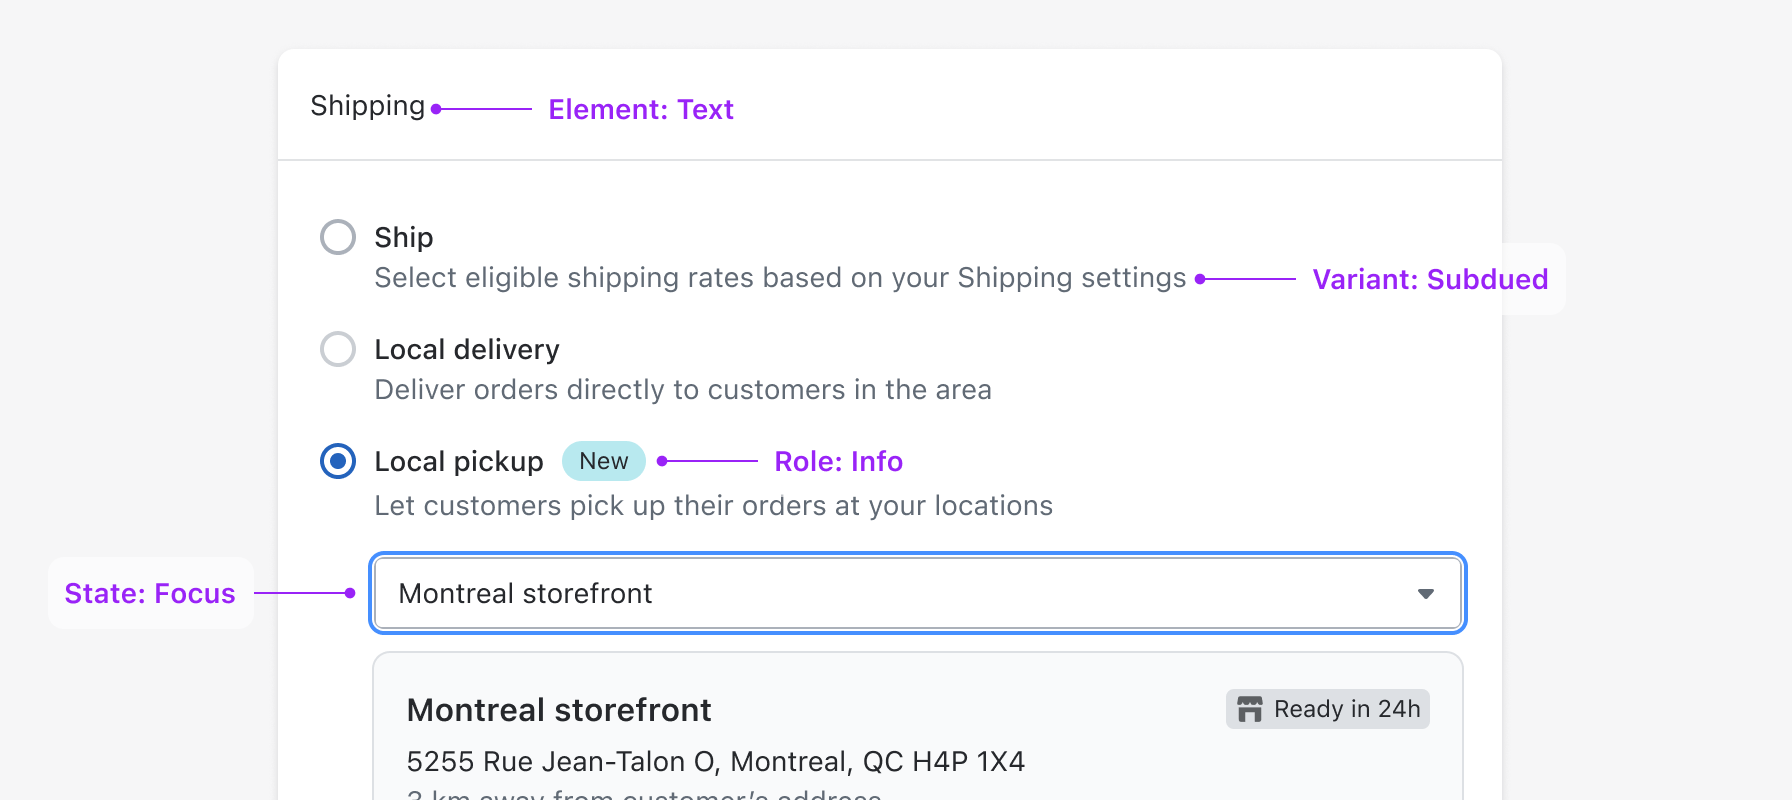
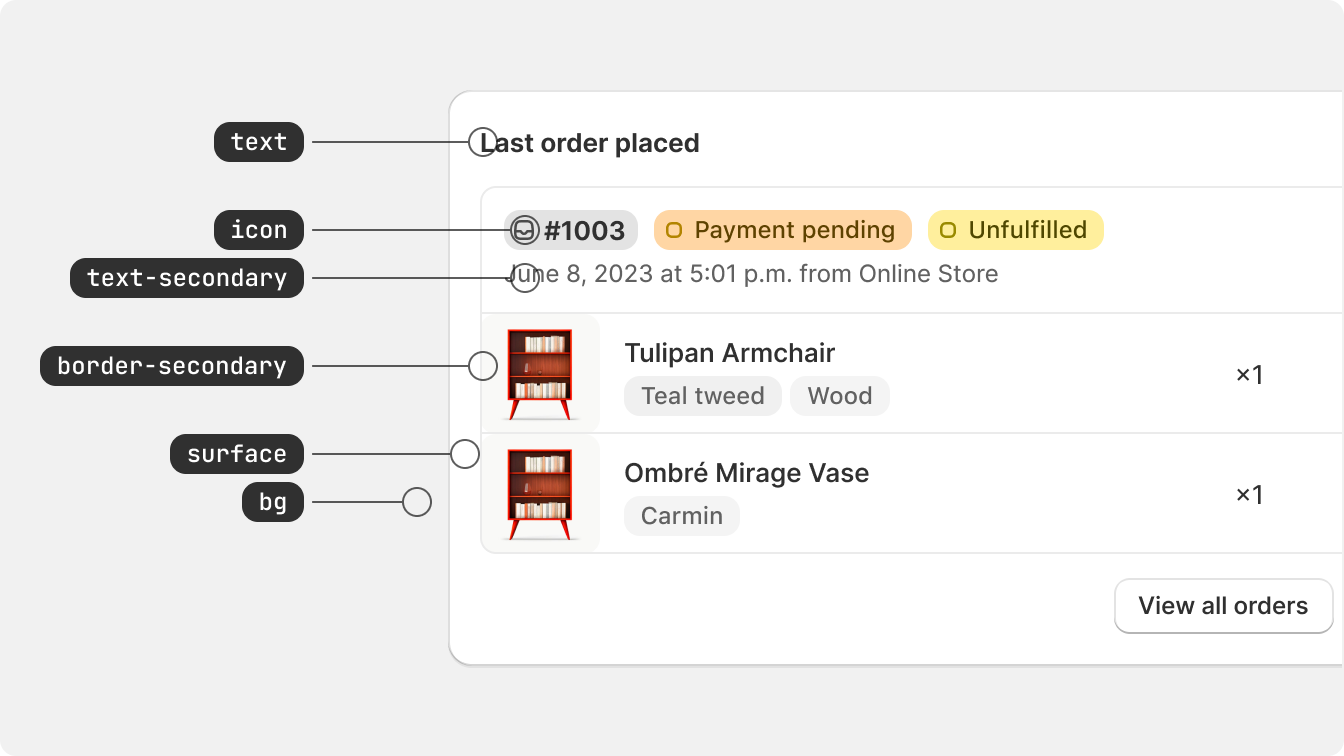
[polaris.shopify.com] Add color token docs (#11334)
Add color token documentation

Fixes https://github.com/Shopify/polaris-internal/issues/1274

![docs](https://github.com/Shopify/polaris/assets/8629173/5b520524-535e-4f3b-bcbb-a2de08963dfb)

diff --git a/.changeset/brown-foxes-call.md b/.changeset/brown-foxes-call.md
@@ -1,0 +1,5 @@
+---
+'polaris.shopify.com': patch
+---
+
+Added color token documentation
